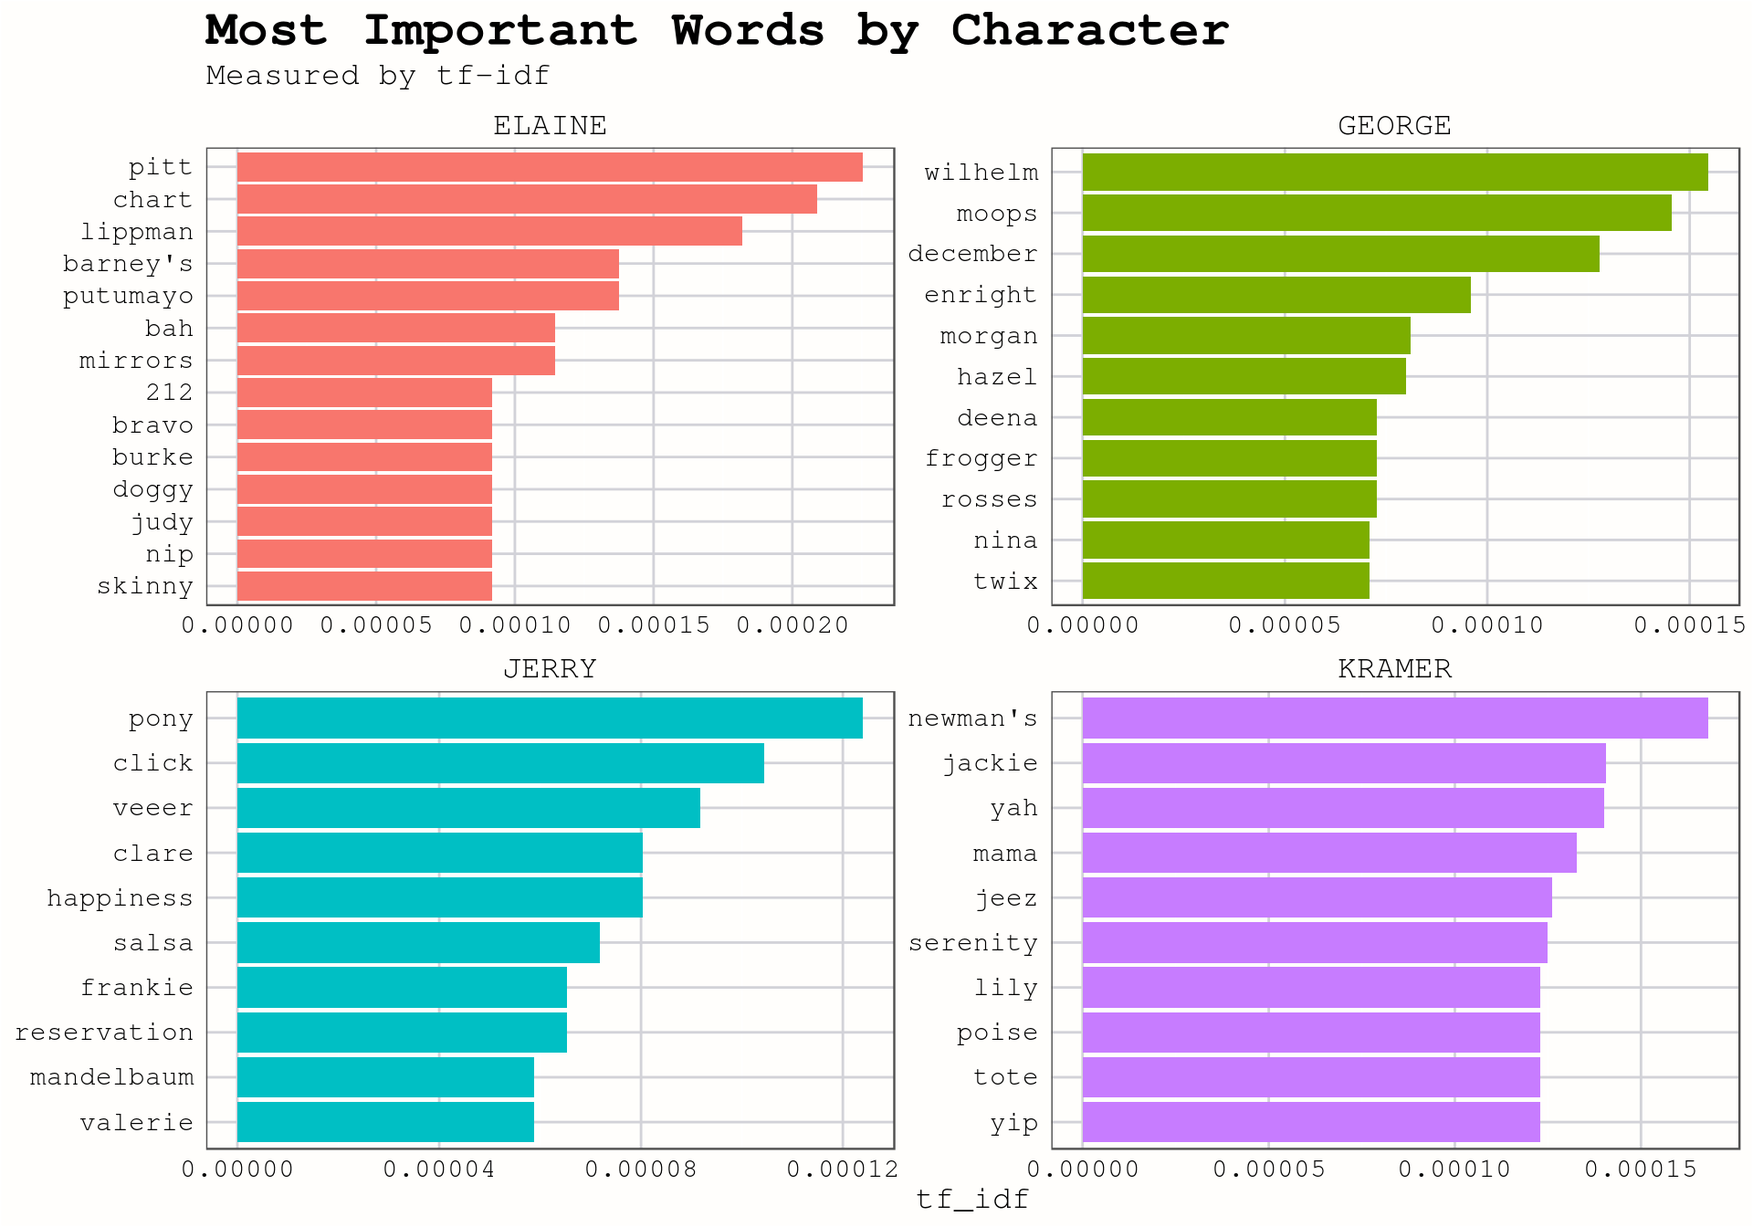
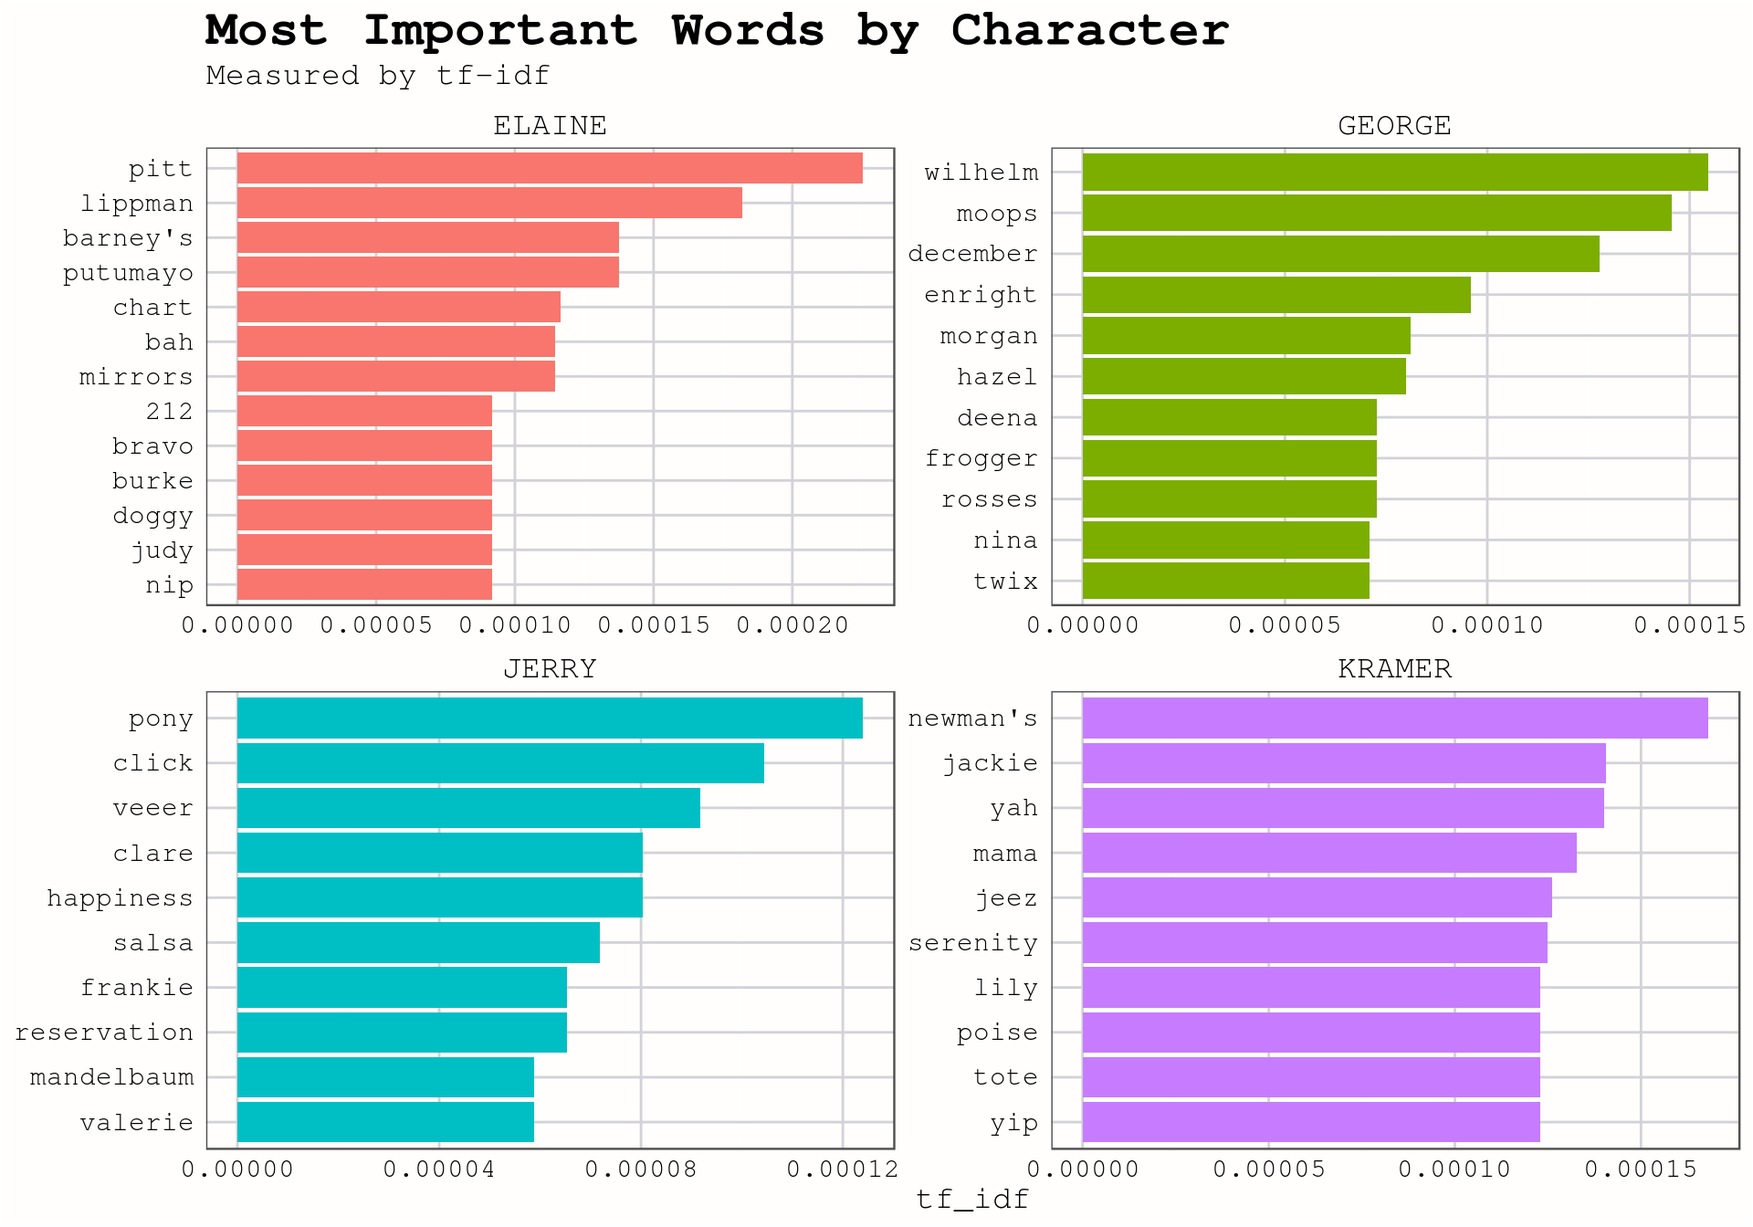
use updated seinfeld data

Changed region(s): [[0.0312, 0.125, 0.5, 0.5]]

diff --git a/content/post/top_episode_table.html b/content/post/top_episode_table.html
@@ -10,11 +10,11 @@
 </head>
 <body style="background-color:white;">
 <div id="htmlwidget_container">
-<div id="htmlwidget-aad19b17e6069603b8f3" class="datatables html-widget" style="width:800px;height:400px;">
+<div id="htmlwidget-307a353e047d8db206b2" class="datatables html-widget" style="width:800px;height:400px;">
 
 </div>
 </div>
-<script type="application/json" data-for="htmlwidget-aad19b17e6069603b8f3">{"x":{"filter":"none","data":[[1,2,3,4,5,6,7,8,9,10,11,12,13,14,15,16,17,18,19,20,21,22,23,24,25,26,27,28,29,30,31,32,33,34,35,36,37,38,39,40,41,42,43,44,45,46,47,48,49,50,51,52,53,54,55,56,57,58,59,60,61,62,63,64,65,66,67,68,69,70,71,72,73,74,75,76,77,78,79,80,81,82,84,85,86,87,88,89,90,91,92,93,94,95,96,97,98,99,100,102,103,104,105,106,107,108,109,110,111,112,113,114,115,116,117,118,119,120,121,122,123,124,125,126,127,128,129,130,131,132,133,134,135,136,137,138,139,140,141,142,143,144,145,146,147,148,149,150,151,152,153,154,155,156,157,158,159,160,161,162,163,164,165,166,167,168,169,170,171,172,173,174,175,176,177,179],["Good News, Bad News","The Stakeout","The Robbery","Male Unbonding","The Stock Tip","The Ex-Girlfriend","The Pony Remark","The Jacket","The Phone Message","The Apartment","The Statue","The Revenge","The Heart Attack","The Deal","The Baby Shower","The Chinese Restaurant","The Busboy","The Note","The Truth","The Pen","The Dog","The Library","The Parking Garage","The Cafe","The Tape","The Nose Job","The Stranded","The Alternate Side","The Red Dot","The Subway","The Pez Dispenser","The Suicide","The Fix-Up","The Boyfriend (1)","The Boyfriend (2)","The Limo","The Good Samaritan","The Letter","The Parking Space","The Keys","The Trip (1)","The Trip (2)","The Pitch","The Ticket","The Wallet (1)","The Watch (2)","The Bubble Boy","The Cheever Letters","The Opera","The Virgin","The Contest","The Airport","The Pick","The Movie","The Visa","The Shoes","The Outing","The Old Man","The Implant","The Junior Mint","The Smelly Car","The Handicap Spot","The Pilot (1)","The Pilot (2)","The Mango","The Puffy Shirt","The Glasses","The Sniffing Accountant","The Bris","The Lip Reader","The Non-Fat Yogurt","The Barber","The Masseuse","The Cigar Store Indian","The Conversion","The Stall","The Dinner Party","The Marine Biologist","The Pie","The Stand-In","The Wife","The Raincoats","The Fire","The Hamptons","The Opposite","The Chaperone","The Big Salad","The Pledge Drive","The Chinese Woman","The Couch","The Gymnast","The Soup","The Mom &amp; Pop Store","The Secretary","The Race","The Switch","The Label Maker","The Scofflaw","Highlights of a Hundred  (a.k.a. The Clip Show)","The Beard","The Kiss Hello","The Doorman","The Jimmy","The Doodle","The Fusilli Jerry","The Diplomat's Club","The Face Painter","The Understudy","The Engagement","The Postponement","The Maestro","The Wink","The Hot Tub","The Soup Nazi","The Secret Code","The Pool Guy","The Sponge","The Gum","The Rye","The Caddy","The Seven","The Cadillac (1)","The Cadillac (2)","The Shower Head","The Doll","The Friars Club (a.k.a. The Gypsies)","The Wig Master","The Calzone","The Bottle Deposit (1)","The Bottle Deposit (2)","The Wait Out","The Invitations","The Foundation","The Soul Mate","The Bizarro Jerry","The Little Kicks","The Package","The Fatigues","The Checks","The Chicken Roaster","The Abstinence","The Andrea Doria","The Little Jerry","The Money","The Comeback","The Van Buren Boys","The Susie","The Pothole","The English Patient","The Nap","The Yada Yada","The Millennium","The Muffin Tops","The Summer of George","The Butter Shave","The Voice","The Serenity Now","The Blood","The Junk Mail","The Merv Griffin Show","The Slicer","The Betrayal","The Apology","The Strike","The Dealership","The Reverse Peephole (a.k.a. The Man Fur)","The Cartoon","The Strongbox","The Wizard","The Burning","The Bookstore","The Frogger","The Maid","The Puerto Rican Day","The Clip Show (a.k.a. The Chronicle)","The Finale (1)"],["signal","sagman","gardener","horneck","simons","cantaloupe","pony","jacket","commercial","thousand","statue","rick","tonsils","details","cable","cartwright","pesto","dimaggio","papers","pen","farfel","library","fish","iq","recorder","nose","goldfish","woody","wagon","mudda","richie","coma","cynthia","keith","keith","o'brien","bless","dugout","space","keys","tuck","19","salsa","banker","svenjolly","veal","bubble","sandra","clown","marla","john","duty","calvin","rochelle","babu","cleavage","click","goiter","salman","y'know","b.o","drake","russell","raisins","faked","puffy","amy","exclamation","mohel","deaf","yogurt","pensky","rifkin","guide","fungus","tony","babka","marine","mannequin","fulton","pancakes","paris","bozo","breathtaking","opposite","grace","salad","noreen","cape","poppie","enright","armani","jon","uma","communist","racquet","label","gary","episodes","bald","wendy","doorman","jimmy","fleas","assman","ithaca","alec","bette","dog","december","maestro","o'neill","jean","shmoopy","code","ramon","ribbon","lloyd","rye","bra","bike","marisa","exporting","florida","doll","friars","nicole","gack","payroll","clubs","beth","usher","dolores","pam","feldman","brody","chart","mentor","brett","seth","portuguese","andrea","marcelino","cadillac","vincent","buren","susie","flounder","neil","mattress","yada","valerie","stumps","welch","kroner","o","serenity","blood","van","squirrel","kruger","nina","naked","festivus","twix","mayo","sally","maura","hamptons","gonorrhea","leo","frogger","gammy","laser","a","the"],[7,9,5,8,7,11,26,18,12,25,23,6,13,8,20,8,9,14,14,36,11,23,12,18,9,19,3,14,11,6,13,11,9,18,13,42,16,8,17,55,12,6,15,17,6,4,37,10,24,8,9,11,9,13,24,10,14,8,8,20,14,26,8,16,12,14,11,16,23,12,21,14,16,23,8,23,19,11,13,9,6,23,18,10,15,19,26,11,22,18,6,9,30,11,19,11,19,11,2,19,13,18,39,17,18,8,11,14,17,8,30,14,26,25,19,16,17,35,19,18,19,22,5,17,13,11,7,8,9,10,19,8,7,21,8,13,22,21,16,8,8,6,10,12,18,9,29,5,21,14,55,10,7,10,7,43,29,25,28,12,16,25,24,27,18,16,11,9,11,16,19,9,22,8,8,235],[3286,2906,2927,3237,3013,3368,3009,2691,3263,3321,3098,2861,2504,2292,3015,2672,2692,2775,2697,3108,2798,2805,2784,2491,2657,2446,2861,3047,2589,1461,2671,2885,2843,2788,2278,2693,2861,2664,3380,2432,2359,2021,3176,3073,3024,3088,3072,2691,2976,3362,2886,2351,2916,1902,3052,2985,1667,2271,2421,2848,2239,2976,2810,2442,2688,2719,2488,2864,2918,3193,2920,2568,3116,2944,2203,3029,3183,3198,2624,2913,2787,5794,2948,2571,2638,2443,2766,2401,2884,2660,2467,3155,2522,3188,3131,2688,3082,3246,158,2652,3262,2554,2639,2734,2890,2273,2785,2439,2480,3052,3075,3098,2615,2969,2709,2754,2847,2992,2726,3213,3228,3023,2052,3030,2709,2712,2984,2376,2628,2403,2603,2601,2233,2508,2461,2835,4781,2587,2748,2712,2666,2683,2792,3017,2636,2845,2682,2529,2738,2591,2582,2729,2295,2488,2441,2830,2900,2775,2613,2841,3128,2836,3111,2834,3307,2798,2922,2768,2529,2461,2480,2592,2717,2470,192,6677],[0.0066,0.016,0.0076,0.0128,0.012,0.0146,0.0387,0.0116,0.0099,0.0115,0.0251,0.0079,0.0232,0.0142,0.0184,0.0155,0.0173,0.0205,0.0144,0.0271,0.0203,0.0277,0.0079,0.0374,0.0128,0.0149,0.0054,0.0187,0.0173,0.0212,0.0218,0.0155,0.0129,0.0263,0.0232,0.0806,0.0199,0.0155,0.0102,0.0441,0.0172,0.0154,0.0244,0.0248,0.0103,0.0067,0.0429,0.0192,0.0328,0.0097,0.0075,0.0158,0.0117,0.0278,0.032,0.0173,0.0318,0.0182,0.0171,0.0143,0.0323,0.0356,0.0096,0.0293,0.0231,0.021,0.018,0.025,0.0408,0.0142,0.0272,0.0282,0.0265,0.0252,0.0188,0.027,0.0309,0.0178,0.0256,0.016,0.0111,0.0134,0.0362,0.0154,0.0198,0.0232,0.0253,0.0171,0.0313,0.0297,0.0098,0.0185,0.0383,0.0182,0.0316,0.016,0.0198,0.2835,0.0039,0.0139,0.0255,0.0249,0.0401,0.0283,0.0334,0.017,0.0199,0.0205,0.0089,0.0134,0.0467,0.0211,0.0391,0.0469,0.0179,0.0276,0.0322,0.0412,0.019,0.0177,0.033,0.0275,0.0095,0.0147,0.0135,0.0239,0.0138,0.0172,0.0179,0.0145,0.0346,0.0143,0.0147,0.0332,0.0087,0.026,0.0358,0.04,0.031,0.0154,0.0128,0.0103,0.0196,0.0143,0.0347,0.0184,0.0431,0.01,0.0308,0.023,0.1239,0.0208,0.0148,0.0158,0.0125,0.0255,0.0574,0.0206,0.0266,0.016,0.0195,0.0359,0.0148,0.0499,0.0319,0.0259,0.0147,0.0189,0.0168,0.0319,0.0172,0.0188,0.5925,0.0049,null,null]],"container":"<table class=\"display\">\n  <thead>\n    <tr>\n      <th>episode<\/th>\n      <th>title<\/th>\n      <th>word<\/th>\n      <th>n<\/th>\n      <th>total<\/th>\n      <th>tf_idf<\/th>\n    <\/tr>\n  <\/thead>\n<\/table>","options":{"columnDefs":[{"className":"dt-right","targets":[0,3,4,5]}],"order":[],"autoWidth":false,"orderClasses":false}},"evals":[],"jsHooks":[]}</script>
-<script type="application/htmlwidget-sizing" data-for="htmlwidget-aad19b17e6069603b8f3">{"viewer":{"width":800,"height":400,"padding":15,"fill":false},"browser":{"width":800,"height":400,"padding":40,"fill":false}}</script>
+<script type="application/json" data-for="htmlwidget-307a353e047d8db206b2">{"x":{"filter":"none","data":[[1,2,3,4,5,6,7,8,9,10,11,12,13,14,15,16,17,18,19,20,21,22,23,24,25,26,27,28,29,30,31,32,33,34,35,36,37,38,39,40,41,42,43,44,45,46,47,48,49,50,51,52,53,54,55,56,57,58,59,60,61,62,63,64,65,66,67,68,69,70,71,72,73,74,75,76,77,78,79,80,81,82,84,85,86,87,88,89,90,91,92,93,94,95,96,97,98,99,100,102,103,104,105,106,107,108,109,110,111,112,113,114,115,116,117,118,119,120,121,122,123,124,125,126,127,128,129,130,131,132,133,134,135,136,137,138,139,140,141,142,143,144,145,146,147,148,149,150,151,152,153,154,155,156,157,158,159,160,161,162,163,164,165,166,167,168,169,170,171,172,173,174,175,176,177,179],["Good News, Bad News","The Stakeout","The Robbery","Male Unbonding","The Stock Tip","The Ex-Girlfriend","The Pony Remark","The Jacket","The Phone Message","The Apartment","The Statue","The Revenge","The Heart Attack","The Deal","The Baby Shower","The Chinese Restaurant","The Busboy","The Note","The Truth","The Pen","The Dog","The Library","The Parking Garage","The Cafe","The Tape","The Nose Job","The Stranded","The Alternate Side","The Red Dot","The Subway","The Pez Dispenser","The Suicide","The Fix-Up","The Boyfriend (1)","The Boyfriend (2)","The Limo","The Good Samaritan","The Letter","The Parking Space","The Keys","The Trip (1)","The Trip (2)","The Pitch","The Ticket","The Wallet (1)","The Watch (2)","The Bubble Boy","The Cheever Letters","The Opera","The Virgin","The Contest","The Airport","The Pick","The Movie","The Visa","The Shoes","The Outing","The Old Man","The Implant","The Junior Mint","The Smelly Car","The Handicap Spot","The Pilot (1)","The Pilot (2)","The Mango","The Puffy Shirt","The Glasses","The Sniffing Accountant","The Bris","The Lip Reader","The Non-Fat Yogurt","The Barber","The Masseuse","The Cigar Store Indian","The Conversion","The Stall","The Dinner Party","The Marine Biologist","The Pie","The Stand-In","The Wife","The Raincoats","The Fire","The Hamptons","The Opposite","The Chaperone","The Big Salad","The Pledge Drive","The Chinese Woman","The Couch","The Gymnast","The Soup","The Mom &amp; Pop Store","The Secretary","The Race","The Switch","The Label Maker","The Scofflaw","Highlights of a Hundred  (a.k.a. The Clip Show)","The Beard","The Kiss Hello","The Doorman","The Jimmy","The Doodle","The Fusilli Jerry","The Diplomat's Club","The Face Painter","The Understudy","The Engagement","The Postponement","The Maestro","The Wink","The Hot Tub","The Soup Nazi","The Secret Code","The Pool Guy","The Sponge","The Gum","The Rye","The Caddy","The Seven","The Cadillac (1)","The Cadillac (2)","The Shower Head","The Doll","The Friars Club (a.k.a. The Gypsies)","The Wig Master","The Calzone","The Bottle Deposit (1)","The Bottle Deposit (2)","The Wait Out","The Invitations","The Foundation","The Soul Mate","The Bizarro Jerry","The Little Kicks","The Package","The Fatigues","The Checks","The Chicken Roaster","The Abstinence","The Andrea Doria","The Little Jerry","The Money","The Comeback","The Van Buren Boys","The Susie","The Pothole","The English Patient","The Nap","The Yada Yada","The Millennium","The Muffin Tops","The Summer of George","The Butter Shave","The Voice","The Serenity Now","The Blood","The Junk Mail","The Merv Griffin Show","The Slicer","The Betrayal","The Apology","The Strike","The Dealership","The Reverse Peephole (a.k.a. The Man Fur)","The Cartoon","The Strongbox","The Wizard","The Burning","The Bookstore","The Frogger","The Maid","The Puerto Rican Day","The Clip Show (a.k.a. The Chronicle)","The Finale (1)"],["signal","sagman","gardener","horneck","simons","cantaloupe","pony","jacket","commercial","thousand","statue","rick","tonsils","details","cable","cartwright","pesto","dimaggio","papers","pen","farfel","library","fish","iq","recorder","nose","goldfish","woody","cashmere","mudda","richie","coma","cynthia","keith","keith","o'brien","bless","dugout","space","keys","cat","19","salsa","banker","svenjolly","veal","bubble","cabin","clown","marla","john","duty","calvin","rochelle","babu","cleavage","click","goiter","salman","y'know","b.o","drake","russell","raisins","faked","puffy","amy","exclamation","mohel","deaf","yogurt","pensky","rifkin","guide","fungus","tony","babka","marine","mannequin","fulton","pancakes","paris","bozo","breathtaking","opposite","grace","salad","pbs","cape","poppie","enright","armani","jon","uma","communist","racquet","label","gary","episodes","bald","wendy","doorman","jimmy","fleas","assman","exterminator","devils","bette","dog","december","maestro","o'neill","jean","shmoopy","bosco","ramon","ribbon","lloyd","rye","bra","bike","marisa","exporting","florida","doll","friars","nicole","calzone","payroll","clubs","beth","usher","dolores","pam","feldman","brody","chart","mentor","brett","seth","portuguese","andrea","marcelino","cadillac","vincent","buren","susie","flounder","neil","mattress","yada","valerie","muffin","welch","kroner","darren","serenity","blood","van","squirrel","kruger","nina","naked","festivus","twix","mayo","sally","maura","hamptons","gonorrhea","leo","frogger","gammy","laser","a","the"],[7,9,5,8,7,11,26,18,12,25,23,6,13,8,20,8,9,14,14,36,11,23,12,18,9,19,3,14,15,6,13,11,9,18,14,42,16,8,17,55,17,6,15,17,6,4,38,17,27,8,9,11,9,13,24,10,14,9,8,20,14,26,8,16,12,14,12,16,23,12,21,14,16,23,8,23,19,11,13,9,6,23,18,10,16,19,26,12,22,18,6,9,31,11,19,11,19,11,2,19,13,19,39,17,18,7,13,14,17,8,30,14,26,25,16,16,17,35,19,18,19,22,5,17,13,11,7,13,9,10,19,8,7,21,8,13,24,21,16,8,8,6,10,12,18,9,29,5,21,15,55,11,15,10,7,14,29,25,28,12,16,25,24,27,18,16,12,9,12,16,19,9,22,8,8,240],[3286,2938,2927,3237,3074,3368,3119,2691,3263,3321,3098,2861,2562,2292,3015,2695,2692,2775,2697,3108,2798,2805,2842,2491,2657,2453,2907,3114,2855,1571,2777,2885,2843,2865,2381,2693,2861,2759,3443,2472,2870,2364,3192,3073,3243,3088,3160,2984,3285,3362,2886,2395,2938,1902,3052,2985,1821,2420,2509,2860,2297,3043,2926,2497,2688,2730,2712,2864,3042,3193,2954,2642,3155,2966,2305,3029,3183,3223,2649,2913,2841,5883,2948,2571,2951,2443,2766,2655,2884,2660,2800,3155,2629,3204,3188,2688,3082,3246,158,2717,3262,2704,2639,2734,2939,2328,2907,2439,2542,3052,3206,3098,2615,3175,2731,2755,2847,2992,2999,3351,3228,3023,2205,3146,2709,2712,2984,2869,2666,2420,2664,2611,2512,2521,2463,2835,5145,2587,2883,2742,2718,2683,2792,3017,2636,2845,2682,2621,2738,2611,2612,2873,2826,2579,2612,2890,2900,2784,2830,2844,3128,2944,3111,2886,3326,2900,3006,2768,2724,2589,2483,2728,2804,2717,192,6864],[0.0063,0.0158,0.0076,0.0128,0.0118,0.0146,0.0373,0.0116,0.0099,0.0115,0.0251,0.0079,0.0227,0.0142,0.0184,0.0153,0.0173,0.0205,0.0144,0.0264,0.0203,0.0277,0.0078,0.0374,0.0128,0.0148,0.0053,0.0183,0.0199,0.0197,0.021,0.0155,0.0129,0.0256,0.0239,0.0806,0.018,0.015,0.0098,0.0434,0.015,0.0131,0.0243,0.0248,0.0096,0.0067,0.0428,0.0203,0.0335,0.0097,0.0073,0.0155,0.0116,0.0278,0.032,0.0173,0.0291,0.0192,0.0165,0.0142,0.0315,0.0348,0.0092,0.0287,0.0231,0.0209,0.018,0.025,0.0391,0.0142,0.0269,0.0274,0.0262,0.025,0.0179,0.027,0.0309,0.0176,0.0254,0.016,0.0109,0.0132,0.0362,0.0138,0.0211,0.0232,0.0229,0.0186,0.0313,0.0262,0.0098,0.0177,0.0394,0.0178,0.0316,0.016,0.0198,0.2835,0.0038,0.0127,0.0255,0.0263,0.0395,0.0276,0.032,0.0148,0.0229,0.0205,0.0086,0.0134,0.0467,0.0197,0.0388,0.0469,0.0229,0.0276,0.0293,0.0395,0.019,0.0177,0.0307,0.0265,0.0095,0.0147,0.0135,0.0198,0.0136,0.0241,0.0175,0.0145,0.0308,0.0142,0.0147,0.0332,0.008,0.026,0.0373,0.0396,0.0304,0.0154,0.0128,0.0103,0.0196,0.0143,0.0347,0.0178,0.0431,0.0099,0.0304,0.0234,0.1006,0.0221,0.0171,0.0155,0.0125,0.026,0.053,0.0205,0.0257,0.0154,0.0195,0.0353,0.0147,0.0481,0.031,0.0259,0.0149,0.018,0.0183,0.0303,0.0167,0.0171,0.5925,0.0047,null,null]],"container":"<table class=\"display\">\n  <thead>\n    <tr>\n      <th>episode<\/th>\n      <th>title<\/th>\n      <th>word<\/th>\n      <th>n<\/th>\n      <th>total<\/th>\n      <th>tf_idf<\/th>\n    <\/tr>\n  <\/thead>\n<\/table>","options":{"columnDefs":[{"className":"dt-right","targets":[0,3,4,5]}],"order":[],"autoWidth":false,"orderClasses":false}},"evals":[],"jsHooks":[]}</script>
+<script type="application/htmlwidget-sizing" data-for="htmlwidget-307a353e047d8db206b2">{"viewer":{"width":800,"height":400,"padding":15,"fill":false},"browser":{"width":800,"height":400,"padding":40,"fill":false}}</script>
 </body>
 </html>

diff --git a/content/post/2017-05-22-tidytext-analysis-of-seinfeld.html b/content/post/2017-05-22-tidytext-analysis-of-seinfeld.html
@@ -76,8 +76,12 @@ pull_script &lt;- function(page_url){
   # get lines
   script_edit &lt;- str_replace_all(script, &quot;\t|\\(.*?\\)|\\[.*?\\]|NOTE:&quot;, &quot;&quot;)
   
-  lines &lt;- unlist(str_extract_all(script_edit, 
-                                  &quot;(?&lt;=\n[:upper:]{1,20}(\\s{1,20})?:).*&quot;))
+  # regex patterns for pulling speakers and lines
+  line_regex &lt;- &quot;(?&lt;=\n[A-Z]{1,20}(\\.)?(\\s{1,20})?([A-Z]{1,20})?:).*&quot;
+  
+  speaker_regex &lt;- &quot;(?&lt;=\n)[A-Z]+(\\.)?(\\s)?([A-Z]+)?(?=:)&quot;
+  
+  lines &lt;- unlist(str_extract_all(script_edit, line_regex))
   
   lines &lt;- str_replace_all(lines, &quot;\\u0092&quot;, &quot;&#39;&quot;)
   
@@ -91,7 +95,7 @@ pull_script &lt;- function(page_url){
       # remove episode information
       slice(-1) %&gt;% 
       mutate(text = str_replace_all(text, &quot;\t|\\(.*?\\)|\\[.?\\]|NOTE:&quot;, &quot;&quot;),
-             speaker = str_extract_all(text, &quot;(?&lt;=\n)[:upper:]+(\\s)?(?=:)&quot;)) %&gt;% 
+             speaker = str_extract_all(text, speaker_regex)) %&gt;% 
       unnest(speaker)
   
   } else {
@@ -103,7 +107,7 @@ pull_script &lt;- function(page_url){
       # remove episode information
       slice(-1) %&gt;% 
       mutate(text = str_replace_all(text, &quot;\t|\\(.*?\\)|\\[.?\\]|NOTE:&quot;, &quot;&quot;),
-             speaker = str_extract_all(text, &quot;(?&lt;=\n)[:upper:]+(\\s)?(?=:)&quot;)) %&gt;% 
+             speaker = str_extract_all(text, speaker_regex)) %&gt;% 
       unnest(speaker)
   
   } 
@@ -128,8 +132,7 @@ pull_script &lt;- function(page_url){
       writer = writer,
       scene_num = NA,
       scene = NA,
-      speaker = unlist(str_extract_all(script_edit, 
-                                       &quot;(?&lt;=\n)[:upper:]+(\\s)?(?=:)&quot;)),
+      speaker = unlist(str_extract_all(script_edit, speaker_regex)),
       line = lines
     )
     
@@ -138,9 +141,9 @@ pull_script &lt;- function(page_url){
 }
 
 # run for all episodes
-seinfeld &lt;- lapply(links$full_url[1:176], pull_script) %&gt;% 
-  bind_rows() %&gt;% 
-  
+seinfeld &lt;- lapply(links$full_url, pull_script) %&gt;% 
+  bind_rows() 
+
 seinfeld &lt;- seinfeld %&gt;% 
   mutate(episode = as.numeric(episode))
 
@@ -189,7 +192,7 @@ frequency &lt;- tidy_scripts %&gt;%
   labs(y = &quot;OTHER&quot;, x = NULL)  +
   theme(legend.position = &quot;none&quot;)</code></pre>
 <p><img src="/post/2017-05-22-tidytext-analysis-of-seinfeld_files/figure-html/unnamed-chunk-7-1.png" width="979.2" /></p>
-<p>We learn that Elaine says “David” more than others, which makes sense as she dated David Puddy for number of episodes (and the rest of the gang normally called him “Puddy”). George says “Susan” more than others, and Jerry says his own name less frequently than others. Some of my favorites are Kramer’s- he uses the words “<a href="https://www.youtube.com/watch?v=aw6vye15SR0">buddy</a>”, “Cubans”, and “<a href="https://www.youtube.com/watch?v=hzHOmiV0eGU">assman</a>” more frequently than anyone else.</p>
+<p>We learn that Elaine says “David” more than others, which makes sense as she dated David Puddy for number of episodes (and the rest of the gang normally called him “Puddy”). George says “Incredible” more than others, and Jerry says his own name less frequently than others. Some of my favorites are Kramer’s- he uses the words “<a href="https://www.youtube.com/watch?v=aw6vye15SR0">buddy</a>” and “<a href="https://www.youtube.com/watch?v=hzHOmiV0eGU">assman</a>” more frequently than anyone else.</p>
 <p>We can use correlation tests to measure how similar the character’s word frequencies are. I’ve plotted the correlation, along with with a surrounding 95% interval, of each of the four leads compared with the word frequencies of all other characters combined.</p>
 <pre class="r"><code>frequency %&gt;% 
   group_by(speaker) %&gt;% 
